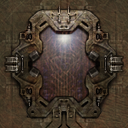
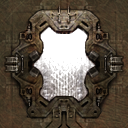
Working OpenGL samples

Changed region(s): [[0.25, 0.1875, 0.75, 0.8125]]

diff --git a/Samples/Graffiti.Samples.Windows.MonoGame.Quake3Shader/Game.cs b/Samples/Graffiti.Samples.Windows.MonoGame.Quake3Shader/Game.cs
@@ -56,7 +56,7 @@ namespace Graffiti.Samples.Windows.MonoGame.Quake3Shader
                 {
                     new Layer
                         {
-                            BlendState = BlendState.Opaque,
+                            BlendState = BlendState.NonPremultiplied,
                             Texture = Content.Load<Texture2D>("Content/basewall01bit")
                         },
                     new Layer
